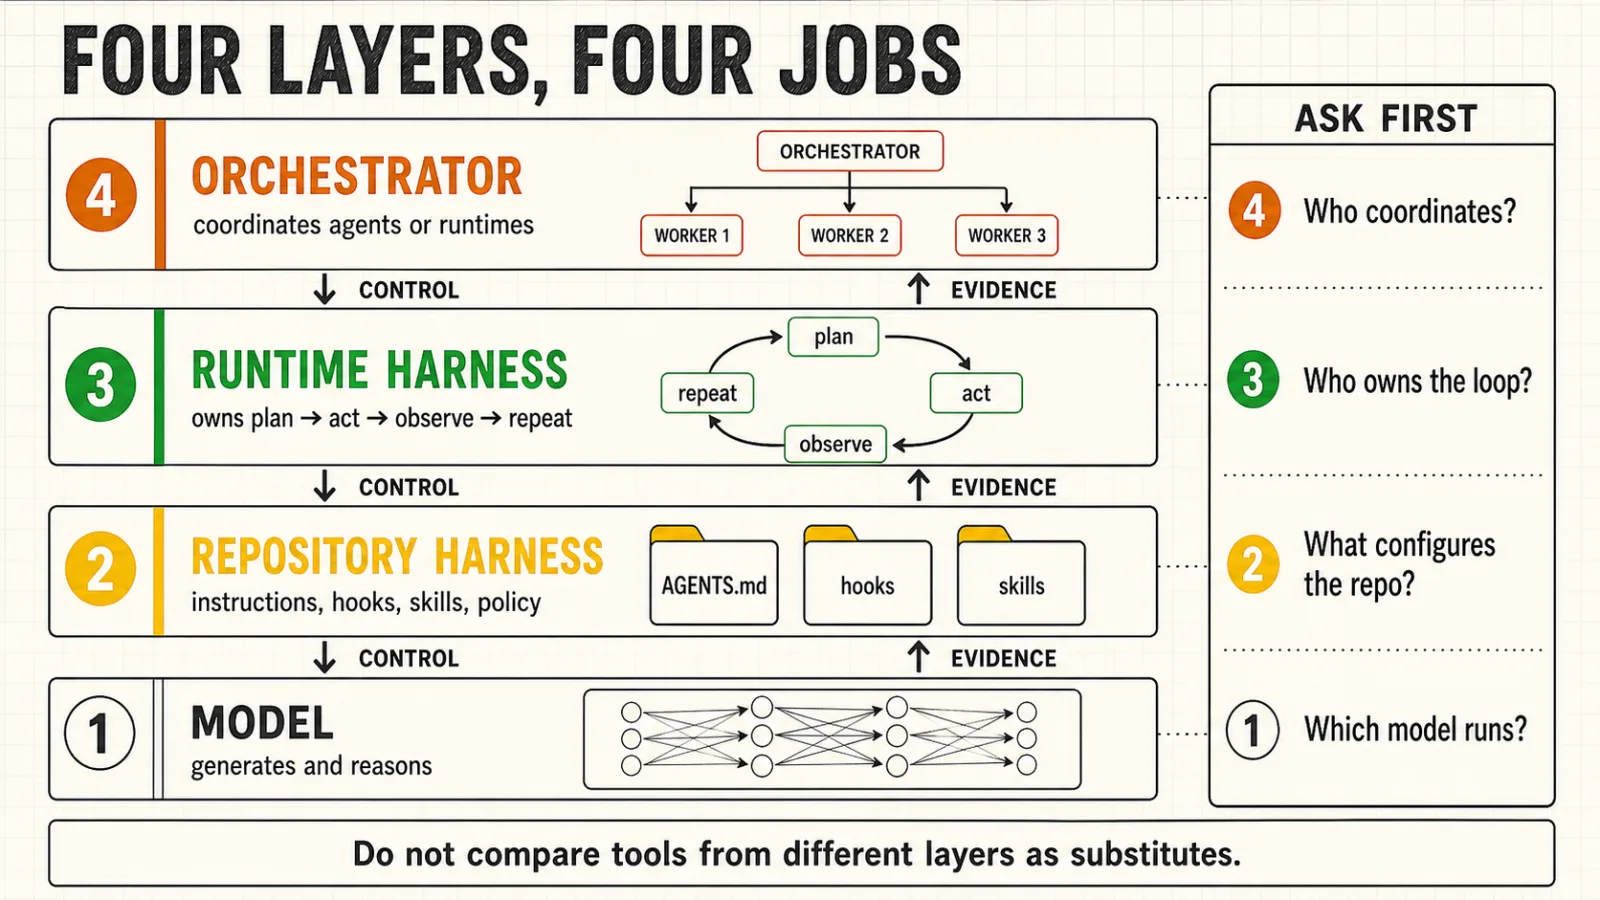
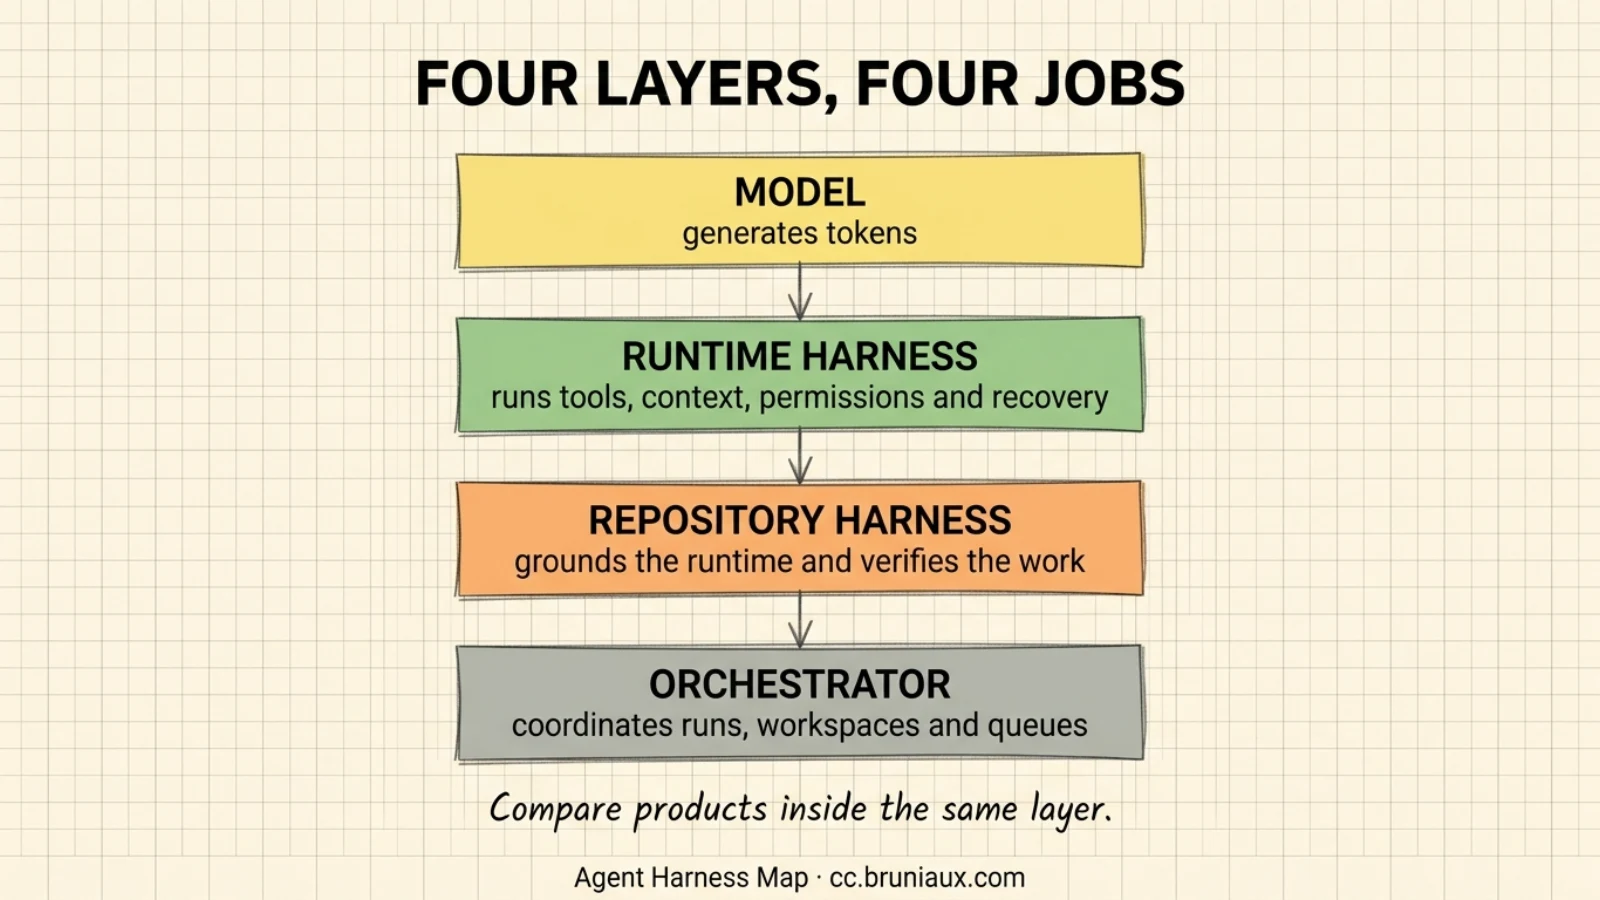
docs: finalize agent harness visuals

diff --git a/CHANGELOG.md b/CHANGELOG.md
@@ -10,6 +10,8 @@ The format is based on [Keep a Changelog](https://keepachangelog.com/en/1.0.0/).
 
 - **Agent Harness Map rebuilt as an evidence-backed catalog** (`guide/ecosystem/agent-harness-landscape.md`, `machine-readable/agent-harnesses.json`, `machine-readable/agent-harnesses.schema.json`, `scripts/build-agent-harnesses.py`, `scripts/build-agent-harness-page.py`): pinned and normalized all 160 projects across the 12 Best of Agent Harnesses categories, then added 31 directly researched guide supplements. The reader-facing map separates 42 strict runtimes from 14 adjacent control planes, gives every project an official external URL including Devin, dates every displayed GitHub star count, preserves confirmed, claimed, unknown, and not-applicable evidence states, and adds a repeatable 8-to-12-task test-drive protocol. Three new visuals explain the 160-project boundary, four-layer taxonomy, and selection funnel. Cross-links now cover architecture, evaluation, observability, security, software factories, team practices, glossary, learning paths, whitepapers, cheatsheets, and the C14 recap card. The normalized JSON is available through the `claude-code-guide://agent-harnesses` MCP resource; MCP package version is 1.3.0.
 
+- **Agent Harness Map visuals finalized** (`guide/images/agent-harness-160-not-runtimes.webp`, `guide/images/agent-harness-four-layers.webp`, `guide/images/agent-harness-selection-funnel.webp`, `docs/visual-prompts/agent-harness-landscape.md`): replaced the initial drafts with the three selected Gemini outputs, normalized them to 1600 x 900 WebP assets, and corrected the pilot card from 5-to-10 to the guide's canonical 8-to-12 real tickets before publication.
+
 - **Claude Code Releases**: Updated tracking to v2.1.250 (from v2.1.246)
   - v2.1.247 (2026-08-26): `SendFeedback` tool drafts a review-and-send report to `/feedback`, Sonnet 5's default auto-compact window now uses its full 1M context (~967K vs ~934K trigger), `/claude-api cost-optimize` profiles API spend against cost levers, sub-agents fall back through the session's model chain instead of dying on a first-call 404
   - v2.1.248 (2026-08-27): ⭐ `--restricted` launch mode strips command/code-execution and `WebFetch` tools, confines file tools to the working directory, and ignores user/project/local settings; cross-session messaging (`SendMessage`/`ListAgents`) extended to Bedrock/Vertex/Foundry and telemetry-disabled sessions; fixed an hourly prompt-cache miss that silently dropped extended-thinking context in long sessions; `experimental.cacheTtl` added to agent frontmatter for per-agent prompt cache TTL

diff --git a/docs/visual-prompts/agent-harness-landscape.md b/docs/visual-prompts/agent-harness-landscape.md
@@ -2,6 +2,14 @@
 
 These prompts generated the three raster figures used by the Agent Harness Map. Each image was generated as a separate asset, reviewed visually, resized to 1600 x 900, and converted to WebP.
 
+Selected Gemini source files:
+
+| Published asset | Selected source |
+|---|---|
+| `agent-harness-160-not-runtimes.webp` | `Gemini_Generated_Image_21edgl21edgl21ed.jpeg` |
+| `agent-harness-four-layers.webp` | `Gemini_Generated_Image_u0ieeju0ieeju0ie.jpeg` |
+| `agent-harness-selection-funnel.webp` | `Gemini_Generated_Image_7rttz17rttz17rtt.jpeg`, with the pilot count corrected from 5-to-10 to 8-to-12 real tickets before conversion |
+
 ## Shared art direction
 
 Use a warm cream graph-paper background (`#f5f1e8`), a subtle grid (`#d4cfb8`), precise dark pencil or ink lines (`#1a1a1a`), and restrained yellow (`#fbbf24`), green (`#16a34a`), and orange (`#d97706`) accents. Reserve red for risk gates. Keep the layout editorial and technical. Do not use photos, 3D, mascots, decorative doodles, stars, page numbers, or logos. All visible text is English. Target 1600 x 900 pixels.
@@ -69,6 +77,6 @@ Keep each step visually distinct, readable, and practical. Avoid tiny text.
 
 | Asset | Dimensions | Size |
 |---|---:|---:|
-| `agent-harness-160-not-runtimes.webp` | 1600 x 900 | 91,158 bytes |
-| `agent-harness-four-layers.webp` | 1600 x 900 | 108,270 bytes |
-| `agent-harness-selection-funnel.webp` | 1600 x 900 | Regenerated after protocol correction |
+| `agent-harness-160-not-runtimes.webp` | 1600 x 900 | Selected Gemini output, resized and converted to WebP |
+| `agent-harness-four-layers.webp` | 1600 x 900 | Selected Gemini output, resized and converted to WebP |
+| `agent-harness-selection-funnel.webp` | 1600 x 900 | Selected Gemini output, corrected to the 8-to-12-ticket protocol, resized, and converted to WebP |
